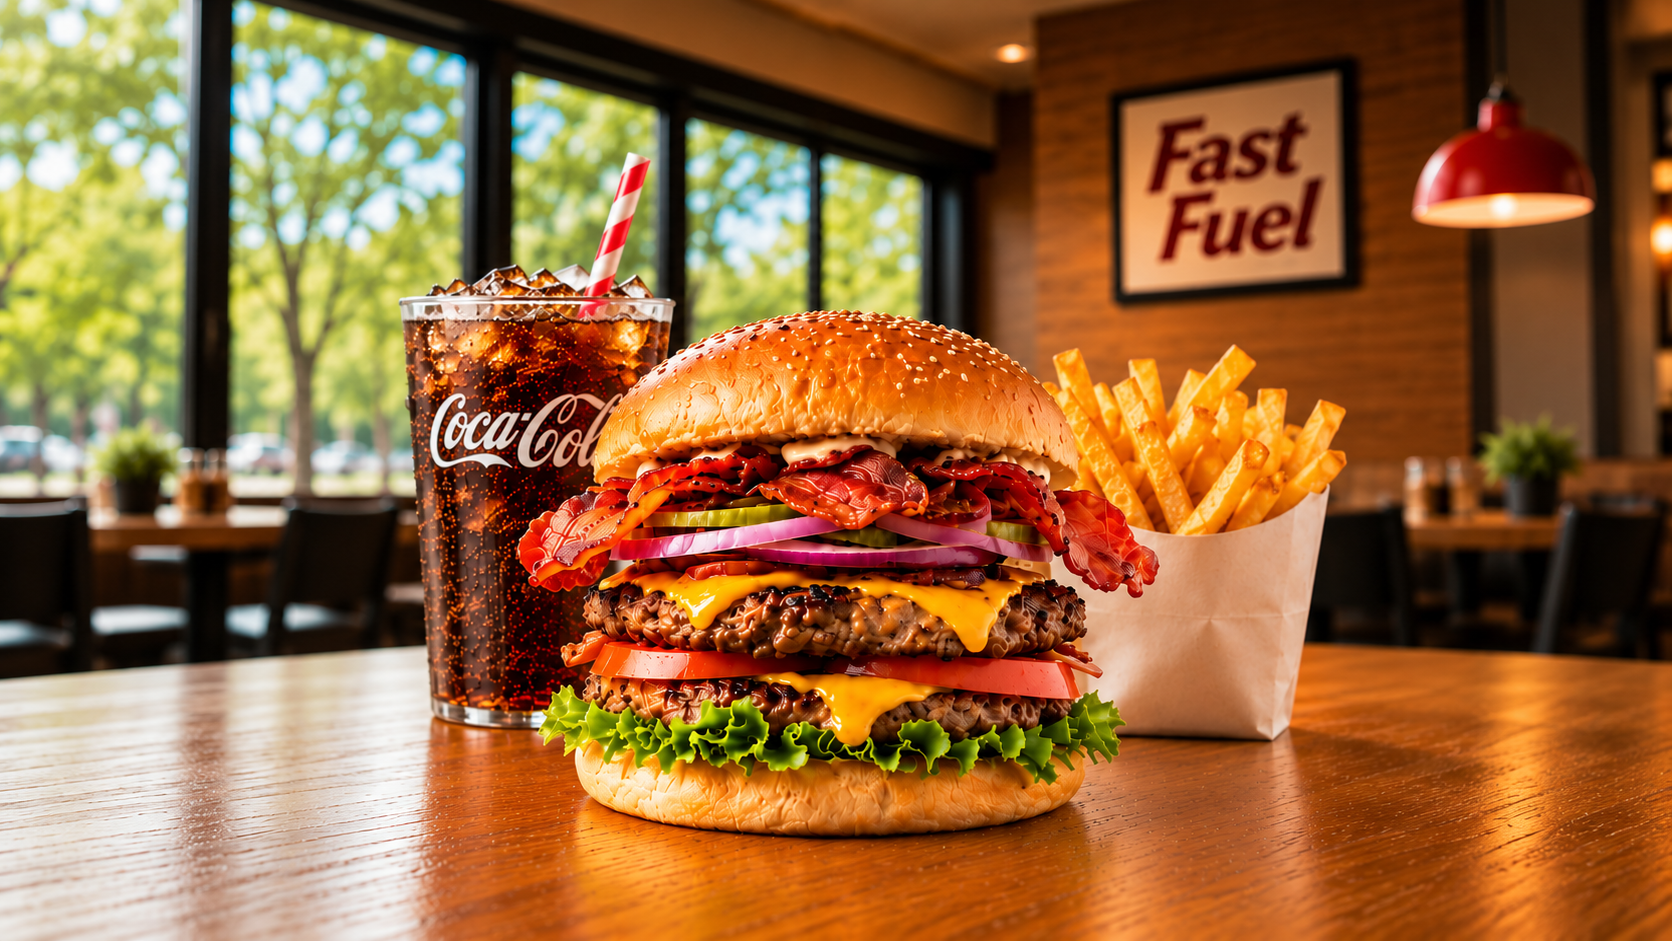
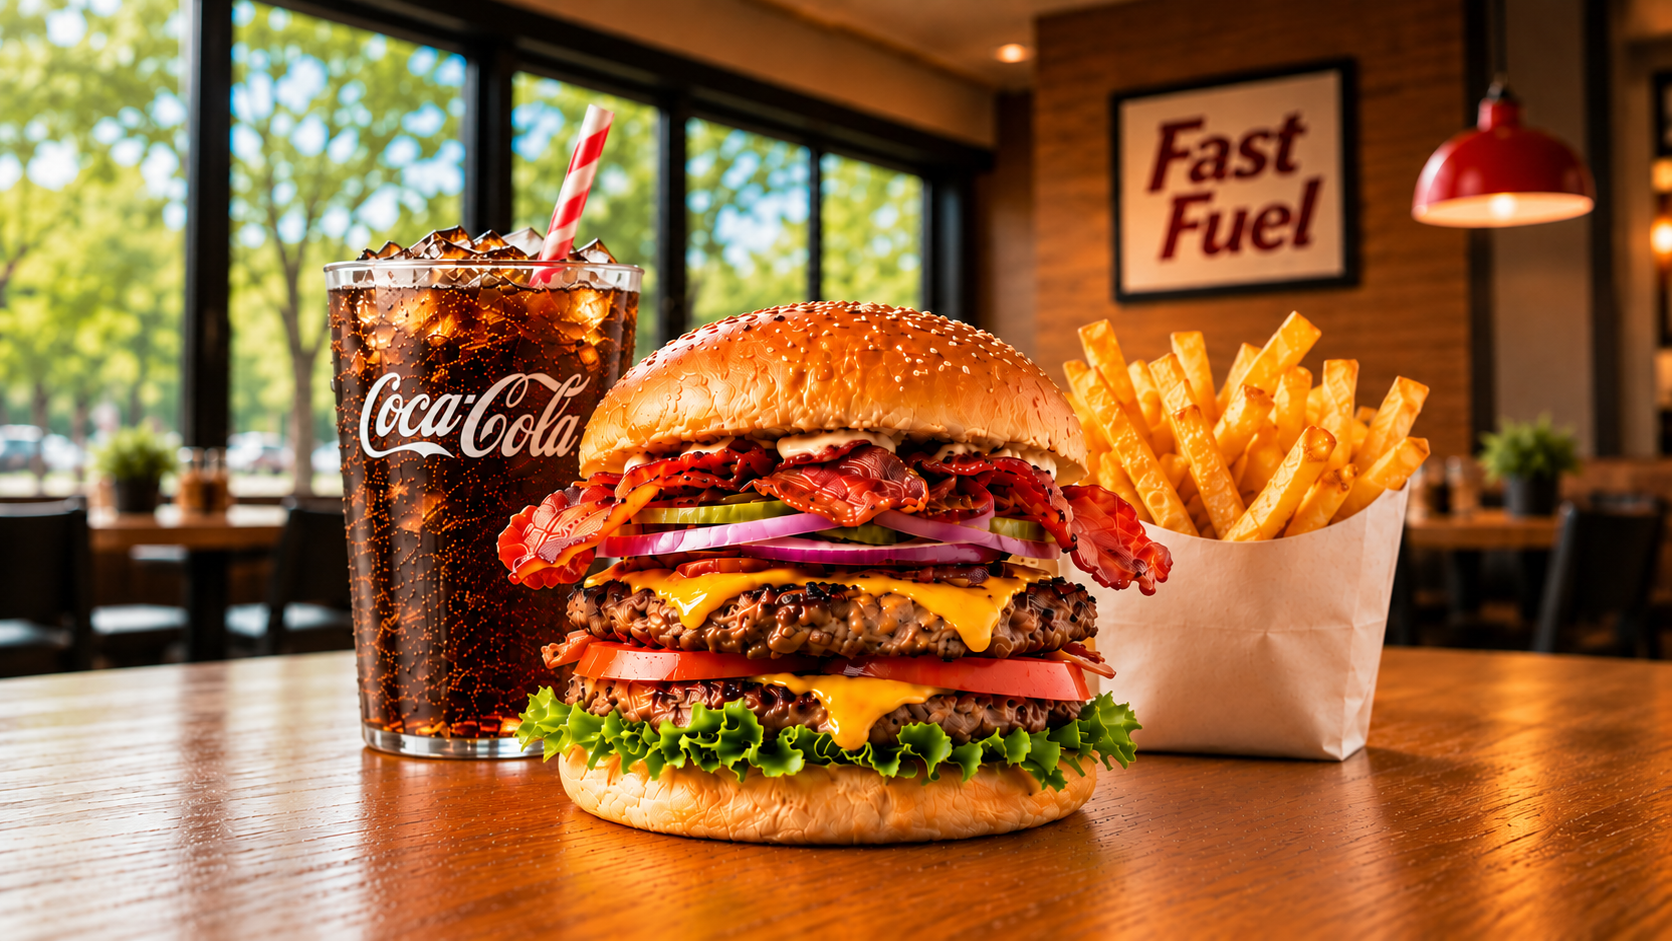
new carousel pics and fix track order path

diff --git a/src/components/home/TrackOrderDesktop.tsx b/src/components/home/TrackOrderDesktop.tsx
@@ -9,7 +9,7 @@ export default function TrackOrderDesktop() {
 
     return (
         <Box
-            onClick={() => navigate("/sales/track")}
+            onClick={() => navigate("/orders")}
             sx={{
                 width: "100%",
                 minHeight: 112,
